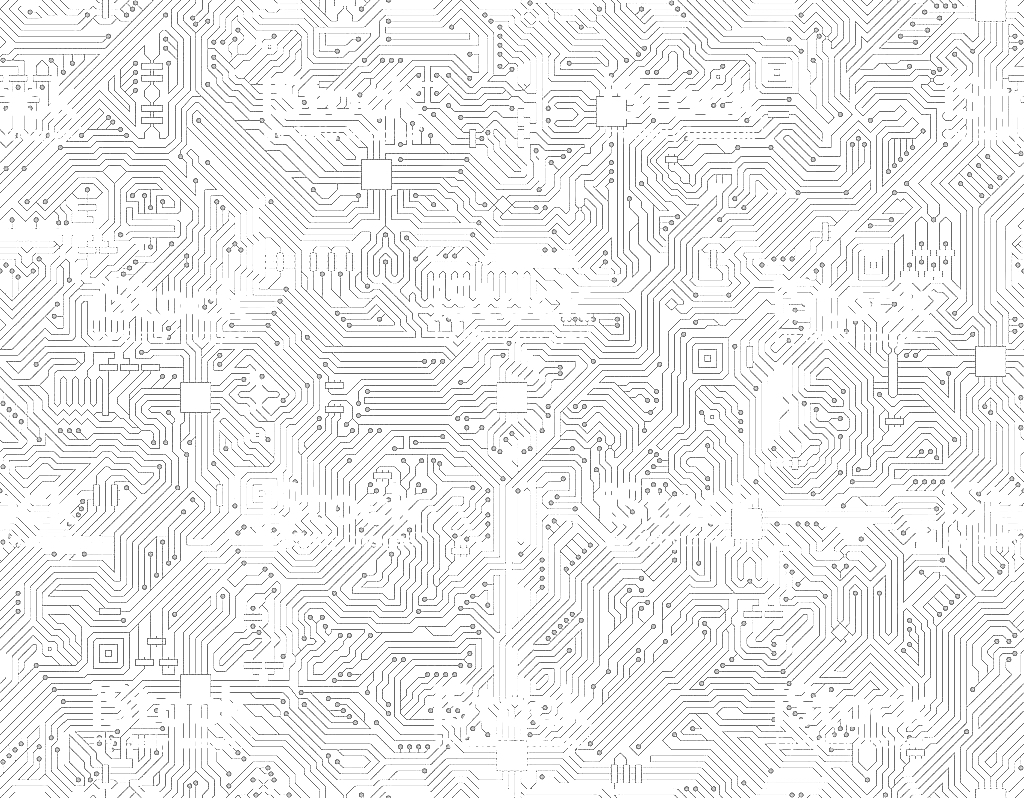
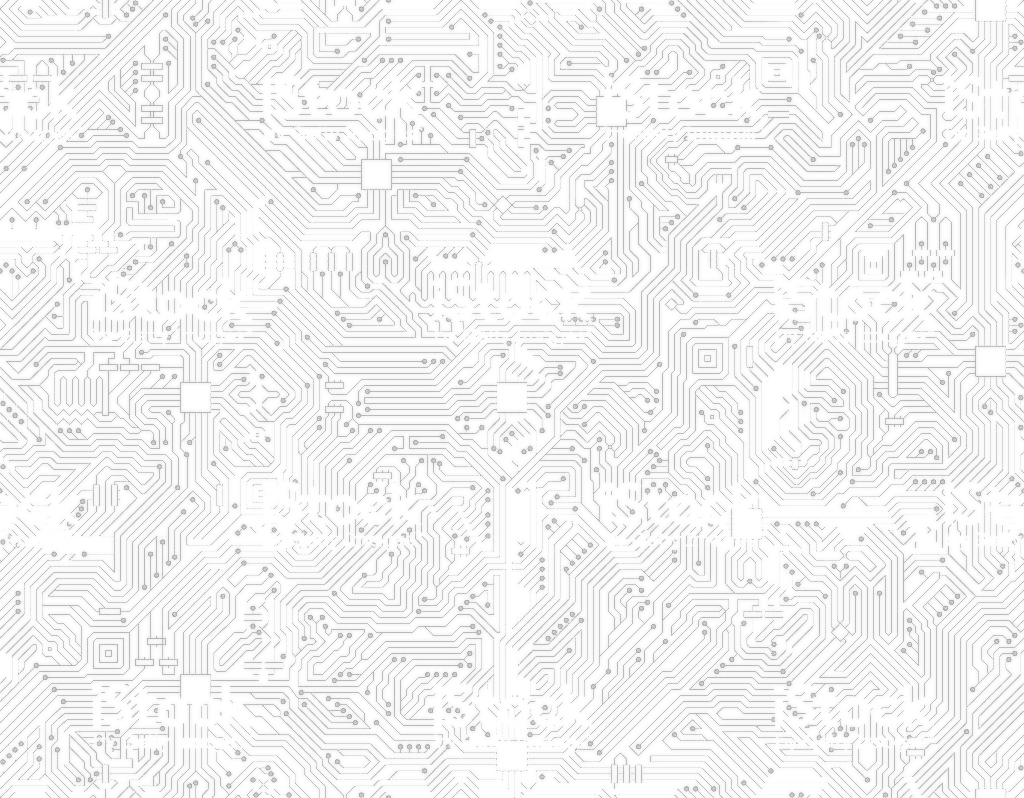
minor changes -Dk

diff --git a/css/sampa.scss b/css/sampa.scss
@@ -22,7 +22,6 @@ body {
   padding-bottom: 20px;
   font-size: $base-font-size;
   font-weight: 400;
-  background-color: rgb(255, 255, 255);
   background-image: url("../img/Circuit2.jpg");
   background-repeat: repeat-xy;
 }
@@ -213,7 +212,7 @@ ul.project-people {
 @media (min-width: 768px) {
     .container {
         max-width: 900px;
-        background: white;
+        background: rgb(255, 255, 255);
     }
   
     .card-columns { @include columns(3); }
